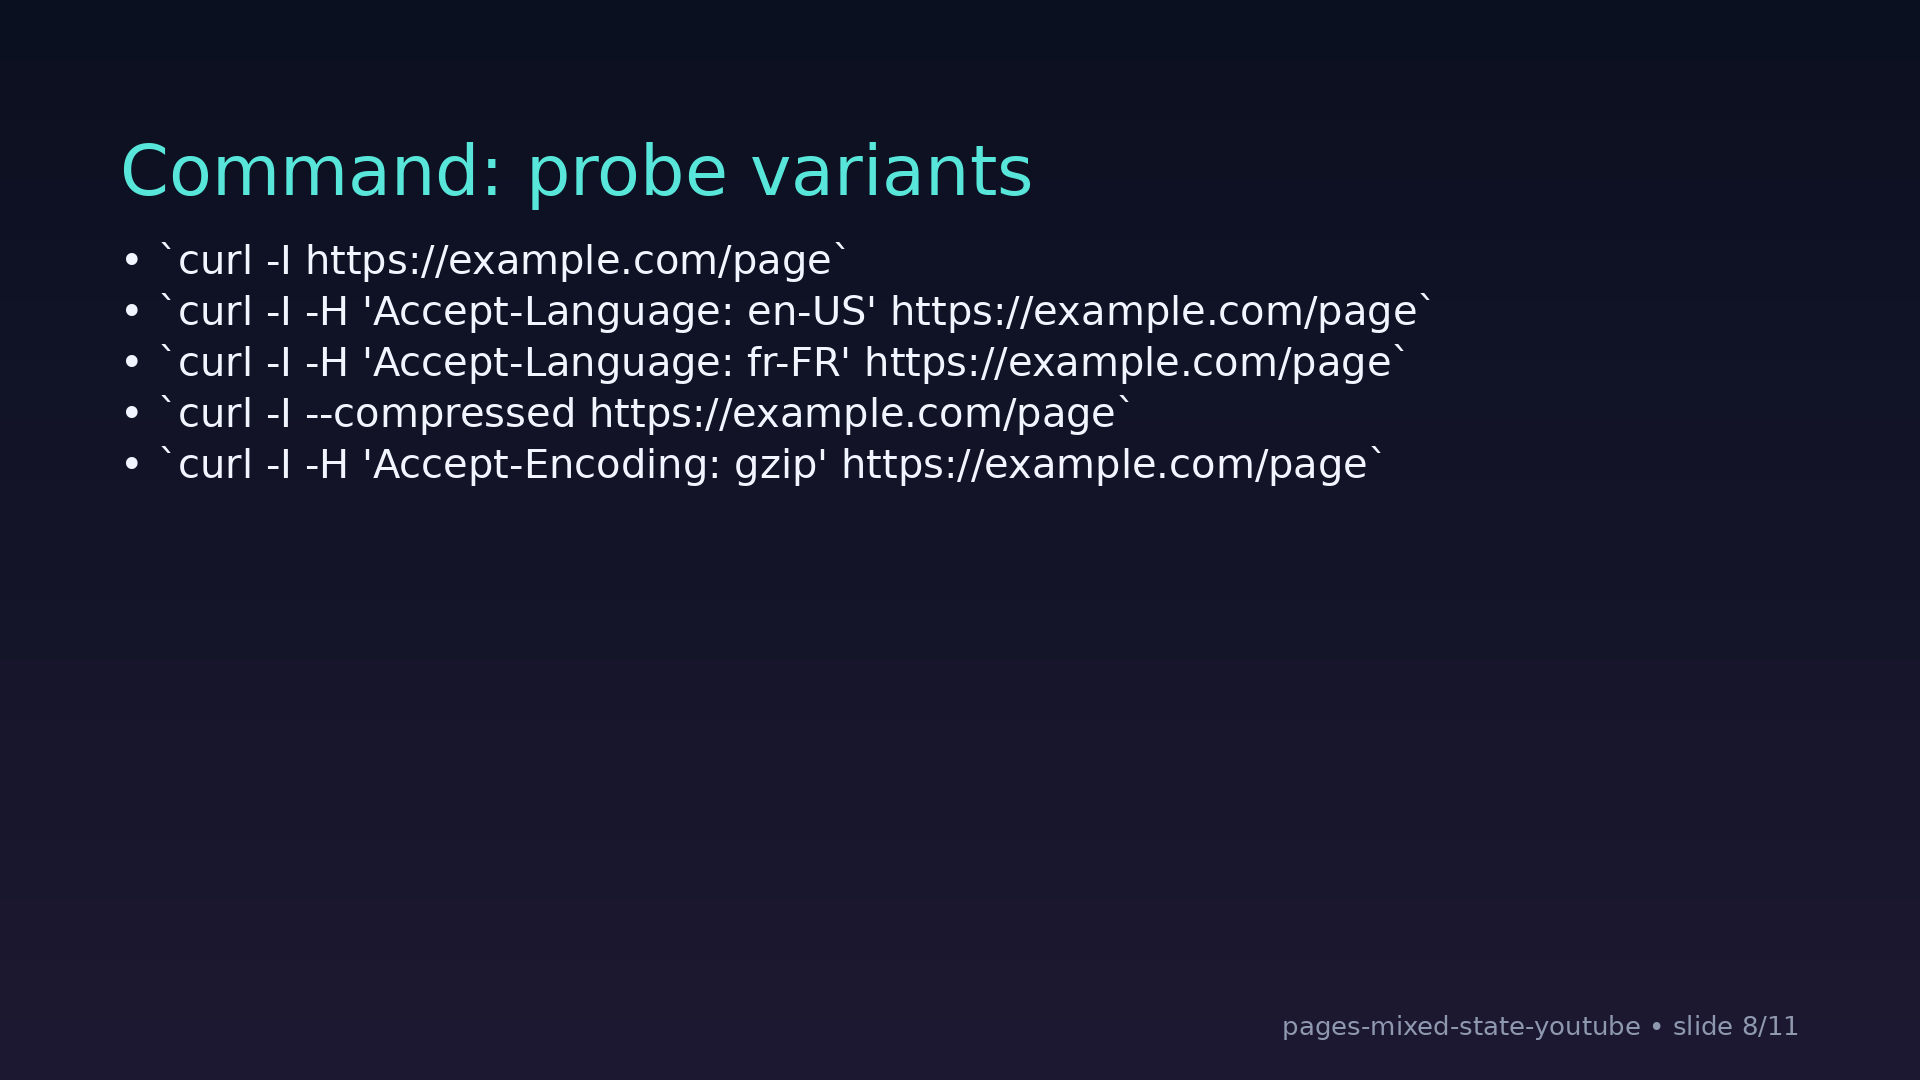
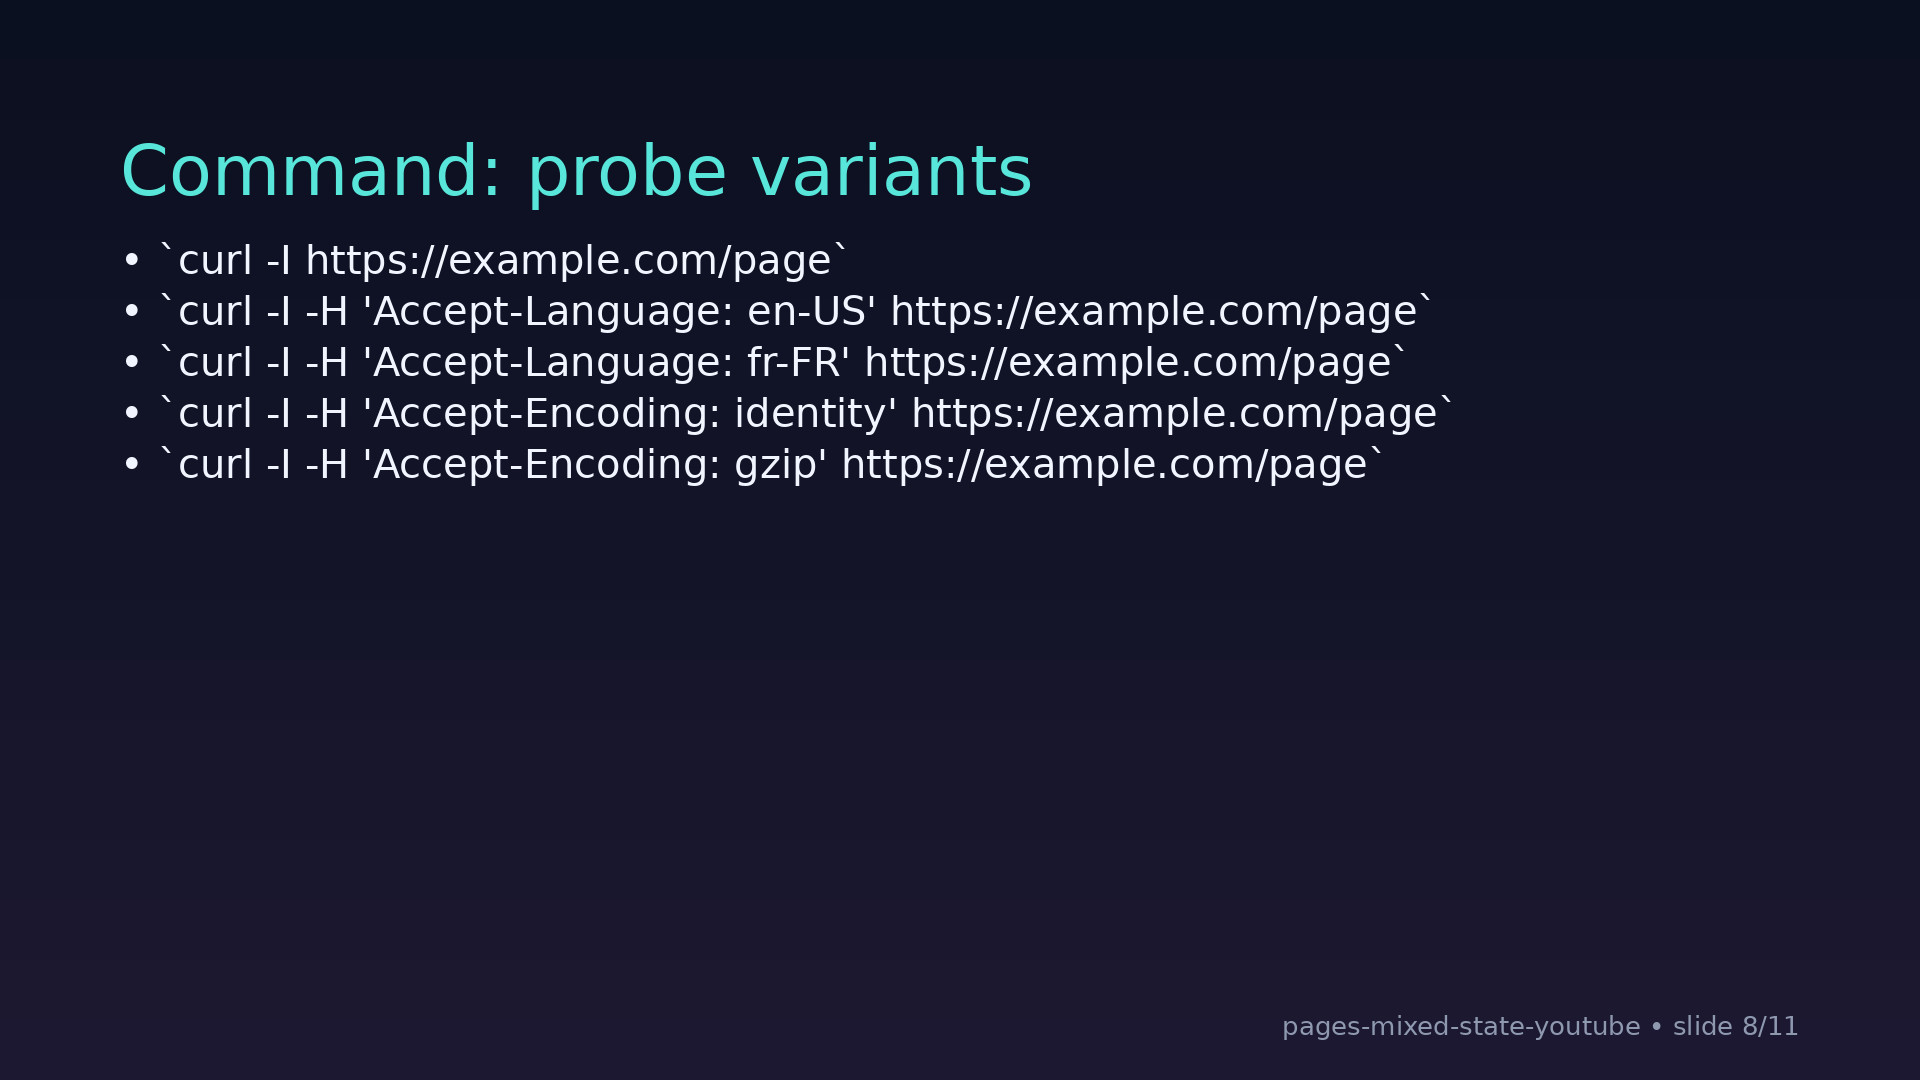
video6: add Accept-Encoding: identity probe example

Changed region(s): [[0.1562, 0.3667, 0.75, 0.3972]]

diff --git a/script/VIDEO6_script.md b/script/VIDEO6_script.md
@@ -15,7 +15,7 @@ Your coworker sees Spanish text; you keep seeing English. Same URL, no feature f
 - Person A has `Accept-Language: en-US`, Person B has `fr-FR`; the CDN serves two language variants because `Vary: Accept-Language` is present.
 - Mobile User-Agent vs desktop User-Agent when `Vary: User-Agent` exists can split caches.
 - Cookies are brutal: a stray AB-test cookie on one user but not the other will fork the cache when `Vary: Cookie` is set.
-- Mixed compression: if `Vary: Accept-Encoding` is set, a cache can have gzip, brotli, and identity copies. `curl --compressed` auto-adds `Accept-Encoding: gzip, deflate, br` and will decompress, so watch `Content-Encoding`.
+- Mixed compression: if `Vary: Accept-Encoding` is set, a cache can have gzip, brotli, and identity copies. For controlled comparisons, explicitly set `Accept-Encoding: identity` as a baseline. (`curl --compressed` is convenient for “browser-like” behavior, but it auto-adds encodings and may hide details by decompressing.)
 - The result: coworker hits one variant, you hit another; deploys can warm some variants but not others.
 
 ## Section 3: How to prove it (not just guess)
@@ -29,9 +29,9 @@ curl -I https://example.com/page
 curl -I -H 'Accept-Language: en-US' https://example.com/page
 curl -I -H 'Accept-Language: fr-FR' https://example.com/page
 
-# Compression variant probe (note: --compressed adds Accept-Encoding and decompresses)
-curl -I --compressed https://example.com/page            # Typically Content-Encoding stripped client-side
-curl -I -H 'Accept-Encoding: gzip' https://example.com/page   # Expect Content-Encoding: gzip if cached separately
+# Compression variant probe (explicit is easier to reason about)
+curl -I -H 'Accept-Encoding: identity' https://example.com/page
+curl -I -H 'Accept-Encoding: gzip' https://example.com/page
 ```
 - If the ETag or Age differs between these requests, you're likely hitting different cached variants. If ETag is same but Age differs wildly, you might be hitting different cache nodes or buckets.
 - Watch for CDN hints (`CF-Cache-Status`, `X-Cache`) changing between header sets. A miss followed by a hit on the second command suggests a separate variant was filled.
